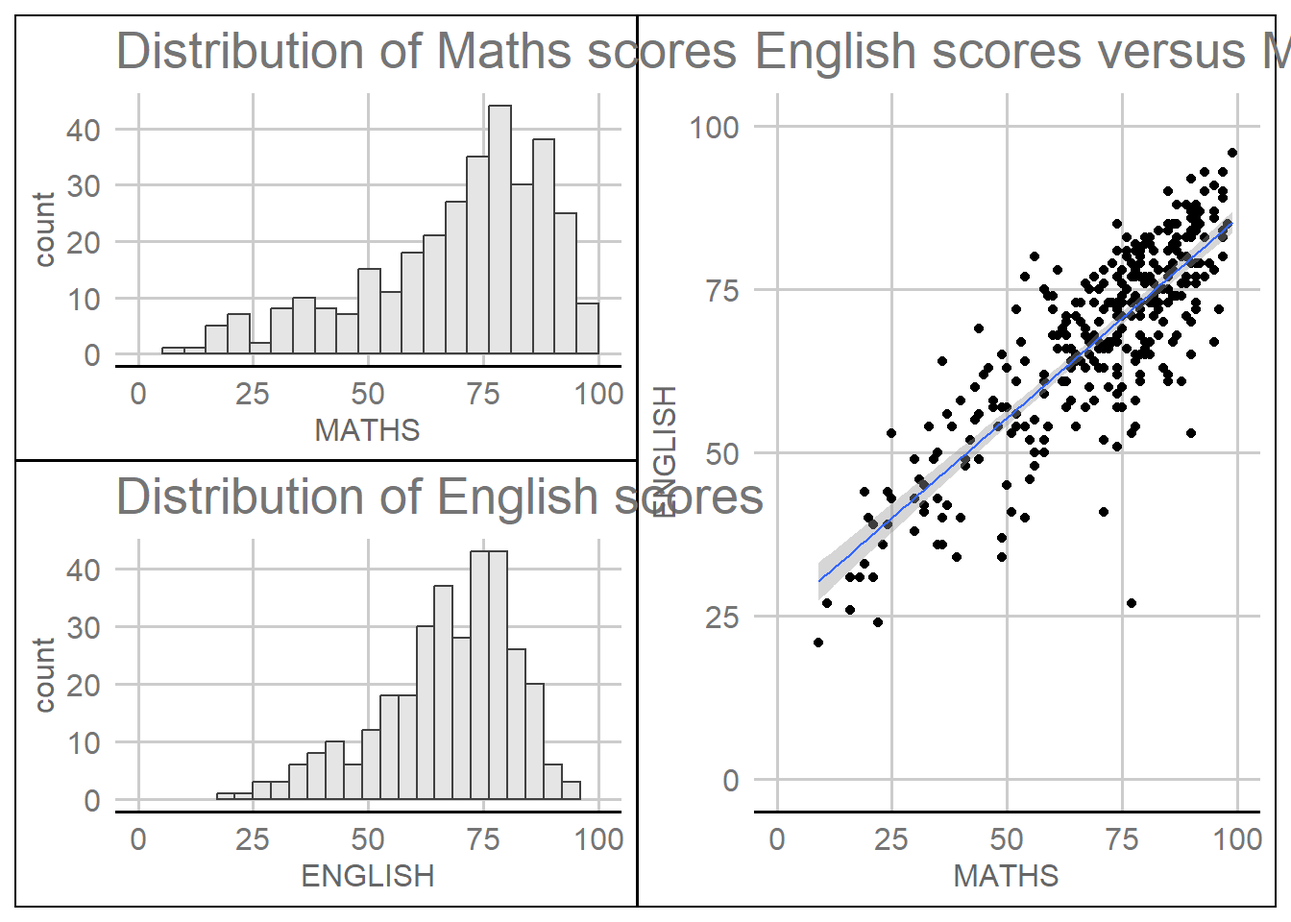
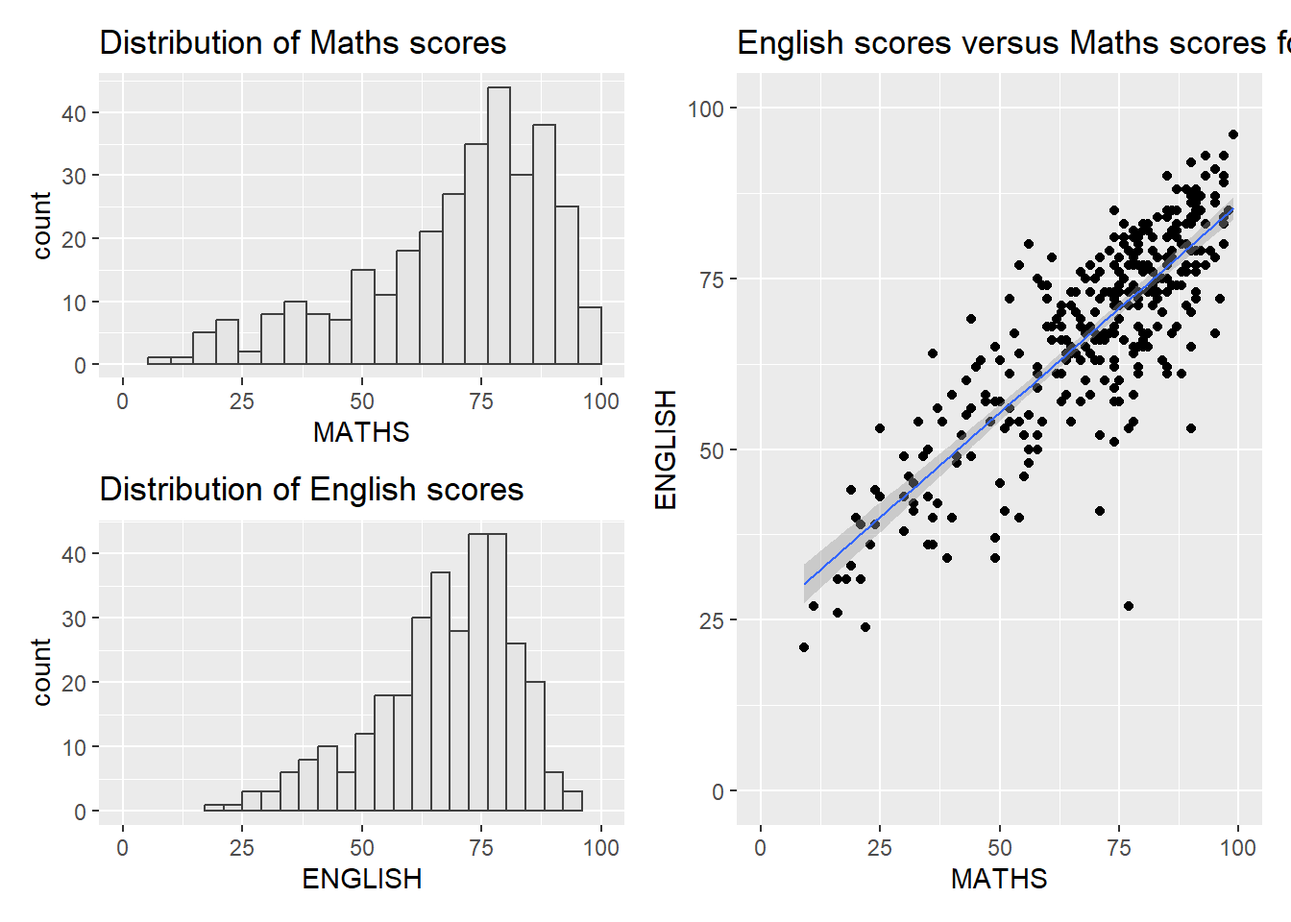
Commit after working Hands On Ex02.

diff --git a/_site/HandsOn_Exercises/HandsOn_Ex02/HandsOnEx02.html b/_site/HandsOn_Exercises/HandsOn_Ex02/HandsOnEx02.html
@@ -197,7 +197,7 @@ background: #300713;
       <div>
       <div class="quarto-title-meta-heading">Modified</div>
       <div class="quarto-title-meta-contents">
-        <p class="date-modified">April 24, 2025</p>
+        <p class="date-modified">April 25, 2025</p>
       </div>
     </div>
       
@@ -234,10 +234,10 @@ background: #300713;
 <h1>Getting Started</h1>
 <p>Besides tidyverse, four R packages will be used.</p>
 <ul>
-<li><p>ggrepel: to provide geoms for ggplot2 to repel overlapping text labels</p></li>
-<li><p>ggthemes: to provide extra themes, geoms, and scales for ‘ggplot2’</p></li>
-<li><p>hrbrthemes: for typography-centric themes and theme components for ggplot2</p></li>
-<li><p>patchwork: for preparing composite figure created using ggplot2</p></li>
+<li><p><a href="https://ggrepel.slowkow.com/"><strong>ggrepel</strong></a>: to provide geoms for ggplot2 to repel overlapping text labels</p></li>
+<li><p><a href="https://yutannihilation.github.io/allYourFigureAreBelongToUs/ggthemes/"><strong>ggthemes</strong></a>: to provide extra themes, geoms, and scales for ‘ggplot2’</p></li>
+<li><p><a href="https://r-graph-gallery.com/package/hrbrthemes.html"><strong>hrbrthemes</strong></a>: for typography-centric themes and theme components for ggplot2</p></li>
+<li><p><a href="https://r-graph-gallery.com/package/patchwork.html"><strong>patchwork</strong></a>: for preparing composite figure created using ggplot2</p></li>
 </ul>
 <p>To check if these packages have been installed and to load them into your working R environment, run the code below.</p>
 <div class="cell">
@@ -364,20 +364,21 @@ dbl (3): ENGLISH, MATHS, SCIENCE
 </figure>
 </div>
 </div>
+<div class="sourceCode cell-code" id="cb8"><pre class="sourceCode r code-with-copy"><code class="sourceCode r"><span id="cb8-1"><a href="#cb8-1" aria-hidden="true" tabindex="-1"></a>knitr<span class="sc">::</span>opts_chunk<span class="sc">$</span><span class="fu">set</span>()</span></code><button title="Copy to Clipboard" class="code-copy-button"><i class="bi"></i></button></pre></div>
 </div>
 <p>ggrepel is an extension of ggplot2 package which provides geoms for ggplot2 to repel overlapping text.</p>
 <div class="cell">
-<div class="sourceCode cell-code" id="cb8"><pre class="sourceCode r code-with-copy"><code class="sourceCode r"><span id="cb8-1"><a href="#cb8-1" aria-hidden="true" tabindex="-1"></a><span class="fu">ggplot</span>(<span class="at">data=</span>exam_data, </span>
-<span id="cb8-2"><a href="#cb8-2" aria-hidden="true" tabindex="-1"></a>       <span class="fu">aes</span>(<span class="at">x=</span> MATHS, </span>
-<span id="cb8-3"><a href="#cb8-3" aria-hidden="true" tabindex="-1"></a>           <span class="at">y=</span>ENGLISH)) <span class="sc">+</span></span>
-<span id="cb8-4"><a href="#cb8-4" aria-hidden="true" tabindex="-1"></a>  <span class="fu">geom_point</span>() <span class="sc">+</span></span>
-<span id="cb8-5"><a href="#cb8-5" aria-hidden="true" tabindex="-1"></a>  <span class="fu">geom_smooth</span>(<span class="at">method=</span>lm, </span>
-<span id="cb8-6"><a href="#cb8-6" aria-hidden="true" tabindex="-1"></a>              <span class="at">size=</span><span class="fl">0.5</span>) <span class="sc">+</span>  </span>
-<span id="cb8-7"><a href="#cb8-7" aria-hidden="true" tabindex="-1"></a>  <span class="fu">geom_label_repel</span>(<span class="fu">aes</span>(<span class="at">label =</span> ID), </span>
-<span id="cb8-8"><a href="#cb8-8" aria-hidden="true" tabindex="-1"></a>                   <span class="at">fontface =</span> <span class="st">"bold"</span>) <span class="sc">+</span></span>
-<span id="cb8-9"><a href="#cb8-9" aria-hidden="true" tabindex="-1"></a>  <span class="fu">coord_cartesian</span>(<span class="at">xlim=</span><span class="fu">c</span>(<span class="dv">0</span>,<span class="dv">100</span>),</span>
-<span id="cb8-10"><a href="#cb8-10" aria-hidden="true" tabindex="-1"></a>                  <span class="at">ylim=</span><span class="fu">c</span>(<span class="dv">0</span>,<span class="dv">100</span>)) <span class="sc">+</span></span>
-<span id="cb8-11"><a href="#cb8-11" aria-hidden="true" tabindex="-1"></a>  <span class="fu">ggtitle</span>(<span class="st">"English scores versus Maths scores for Primary 3"</span>)</span></code><button title="Copy to Clipboard" class="code-copy-button"><i class="bi"></i></button></pre></div>
+<div class="sourceCode cell-code" id="cb9"><pre class="sourceCode r code-with-copy"><code class="sourceCode r"><span id="cb9-1"><a href="#cb9-1" aria-hidden="true" tabindex="-1"></a><span class="fu">ggplot</span>(<span class="at">data=</span>exam_data, </span>
+<span id="cb9-2"><a href="#cb9-2" aria-hidden="true" tabindex="-1"></a>       <span class="fu">aes</span>(<span class="at">x=</span> MATHS, </span>
+<span id="cb9-3"><a href="#cb9-3" aria-hidden="true" tabindex="-1"></a>           <span class="at">y=</span>ENGLISH)) <span class="sc">+</span></span>
+<span id="cb9-4"><a href="#cb9-4" aria-hidden="true" tabindex="-1"></a>  <span class="fu">geom_point</span>() <span class="sc">+</span></span>
+<span id="cb9-5"><a href="#cb9-5" aria-hidden="true" tabindex="-1"></a>  <span class="fu">geom_smooth</span>(<span class="at">method=</span>lm, </span>
+<span id="cb9-6"><a href="#cb9-6" aria-hidden="true" tabindex="-1"></a>              <span class="at">size=</span><span class="fl">0.5</span>) <span class="sc">+</span>  </span>
+<span id="cb9-7"><a href="#cb9-7" aria-hidden="true" tabindex="-1"></a>  <span class="fu">geom_label_repel</span>(<span class="fu">aes</span>(<span class="at">label =</span> ID), </span>
+<span id="cb9-8"><a href="#cb9-8" aria-hidden="true" tabindex="-1"></a>                   <span class="at">fontface =</span> <span class="st">"bold"</span>) <span class="sc">+</span></span>
+<span id="cb9-9"><a href="#cb9-9" aria-hidden="true" tabindex="-1"></a>  <span class="fu">coord_cartesian</span>(<span class="at">xlim=</span><span class="fu">c</span>(<span class="dv">0</span>,<span class="dv">100</span>),</span>
+<span id="cb9-10"><a href="#cb9-10" aria-hidden="true" tabindex="-1"></a>                  <span class="at">ylim=</span><span class="fu">c</span>(<span class="dv">0</span>,<span class="dv">100</span>)) <span class="sc">+</span></span>
+<span id="cb9-11"><a href="#cb9-11" aria-hidden="true" tabindex="-1"></a>  <span class="fu">ggtitle</span>(<span class="st">"English scores versus Maths scores for Primary 3"</span>)</span></code><button title="Copy to Clipboard" class="code-copy-button"><i class="bi"></i></button></pre></div>
 <div class="cell-output cell-output-stderr">
 <pre><code>`geom_smooth()` using formula = 'y ~ x'</code></pre>
 </div>
@@ -392,20 +393,21 @@ increasing max.overlaps</code></pre>
 </figure>
 </div>
 </div>
+<div class="sourceCode cell-code" id="cb12"><pre class="sourceCode r code-with-copy"><code class="sourceCode r"><span id="cb12-1"><a href="#cb12-1" aria-hidden="true" tabindex="-1"></a>knitr<span class="sc">::</span>opts_chunk<span class="sc">$</span><span class="fu">set</span>()</span></code><button title="Copy to Clipboard" class="code-copy-button"><i class="bi"></i></button></pre></div>
 </div>
 </section>
 <section id="themes" class="level1">
 <h1>Themes</h1>
 <p>ggplot2 comes with eight&nbsp;<a href="https://ggplot2.tidyverse.org/reference/ggtheme.html">built-in themes</a>, they are:&nbsp;<code>theme_gray()</code>,&nbsp;<code>theme_bw()</code>,&nbsp;<code>theme_classic()</code>,&nbsp;<code>theme_dark()</code>,&nbsp;<code>theme_light()</code>,&nbsp;<code>theme_linedraw()</code>,&nbsp;<code>theme_minimal()</code>, and&nbsp;<code>theme_void().</code></p>
 <div class="cell">
-<div class="sourceCode cell-code" id="cb11"><pre class="sourceCode r code-with-copy"><code class="sourceCode r"><span id="cb11-1"><a href="#cb11-1" aria-hidden="true" tabindex="-1"></a><span class="fu">ggplot</span>(<span class="at">data=</span>exam_data, </span>
-<span id="cb11-2"><a href="#cb11-2" aria-hidden="true" tabindex="-1"></a>             <span class="fu">aes</span>(<span class="at">x =</span> MATHS)) <span class="sc">+</span></span>
-<span id="cb11-3"><a href="#cb11-3" aria-hidden="true" tabindex="-1"></a>  <span class="fu">geom_histogram</span>(<span class="at">bins=</span><span class="dv">20</span>, </span>
-<span id="cb11-4"><a href="#cb11-4" aria-hidden="true" tabindex="-1"></a>                 <span class="at">boundary =</span> <span class="dv">100</span>,</span>
-<span id="cb11-5"><a href="#cb11-5" aria-hidden="true" tabindex="-1"></a>                 <span class="at">color=</span><span class="st">"grey25"</span>, </span>
-<span id="cb11-6"><a href="#cb11-6" aria-hidden="true" tabindex="-1"></a>                 <span class="at">fill=</span><span class="st">"grey90"</span>) <span class="sc">+</span></span>
-<span id="cb11-7"><a href="#cb11-7" aria-hidden="true" tabindex="-1"></a>  <span class="fu">theme_dark</span>() <span class="sc">+</span></span>
-<span id="cb11-8"><a href="#cb11-8" aria-hidden="true" tabindex="-1"></a>  <span class="fu">ggtitle</span>(<span class="st">"Distribution of Maths Scores"</span>) </span></code><button title="Copy to Clipboard" class="code-copy-button"><i class="bi"></i></button></pre></div>
+<div class="sourceCode cell-code" id="cb13"><pre class="sourceCode r code-with-copy"><code class="sourceCode r"><span id="cb13-1"><a href="#cb13-1" aria-hidden="true" tabindex="-1"></a><span class="fu">ggplot</span>(<span class="at">data=</span>exam_data, </span>
+<span id="cb13-2"><a href="#cb13-2" aria-hidden="true" tabindex="-1"></a>             <span class="fu">aes</span>(<span class="at">x =</span> MATHS)) <span class="sc">+</span></span>
+<span id="cb13-3"><a href="#cb13-3" aria-hidden="true" tabindex="-1"></a>  <span class="fu">geom_histogram</span>(<span class="at">bins=</span><span class="dv">20</span>, </span>
+<span id="cb13-4"><a href="#cb13-4" aria-hidden="true" tabindex="-1"></a>                 <span class="at">boundary =</span> <span class="dv">100</span>,</span>
+<span id="cb13-5"><a href="#cb13-5" aria-hidden="true" tabindex="-1"></a>                 <span class="at">color=</span><span class="st">"grey25"</span>, </span>
+<span id="cb13-6"><a href="#cb13-6" aria-hidden="true" tabindex="-1"></a>                 <span class="at">fill=</span><span class="st">"grey90"</span>) <span class="sc">+</span></span>
+<span id="cb13-7"><a href="#cb13-7" aria-hidden="true" tabindex="-1"></a>  <span class="fu">theme_dark</span>() <span class="sc">+</span></span>
+<span id="cb13-8"><a href="#cb13-8" aria-hidden="true" tabindex="-1"></a>  <span class="fu">ggtitle</span>(<span class="st">"Distribution of Maths Scores"</span>) </span></code><button title="Copy to Clipboard" class="code-copy-button"><i class="bi"></i></button></pre></div>
 <div class="cell-output-display">
 <div>
 <figure class="figure">
@@ -415,14 +417,14 @@ increasing max.overlaps</code></pre>
 </div>
 </div>
 <div class="cell">
-<div class="sourceCode cell-code" id="cb12"><pre class="sourceCode r code-with-copy"><code class="sourceCode r"><span id="cb12-1"><a href="#cb12-1" aria-hidden="true" tabindex="-1"></a><span class="fu">ggplot</span>(<span class="at">data=</span>exam_data, </span>
-<span id="cb12-2"><a href="#cb12-2" aria-hidden="true" tabindex="-1"></a>             <span class="fu">aes</span>(<span class="at">x =</span> MATHS)) <span class="sc">+</span></span>
-<span id="cb12-3"><a href="#cb12-3" aria-hidden="true" tabindex="-1"></a>  <span class="fu">geom_histogram</span>(<span class="at">bins=</span><span class="dv">20</span>, </span>
-<span id="cb12-4"><a href="#cb12-4" aria-hidden="true" tabindex="-1"></a>                 <span class="at">boundary =</span> <span class="dv">100</span>,</span>
-<span id="cb12-5"><a href="#cb12-5" aria-hidden="true" tabindex="-1"></a>                 <span class="at">color=</span><span class="st">"grey25"</span>, </span>
-<span id="cb12-6"><a href="#cb12-6" aria-hidden="true" tabindex="-1"></a>                 <span class="at">fill=</span><span class="st">"grey90"</span>) <span class="sc">+</span></span>
-<span id="cb12-7"><a href="#cb12-7" aria-hidden="true" tabindex="-1"></a>  <span class="fu">ggtitle</span>(<span class="st">"Distribution of Maths scores"</span>) <span class="sc">+</span></span>
-<span id="cb12-8"><a href="#cb12-8" aria-hidden="true" tabindex="-1"></a>  <span class="fu">theme_ipsum</span>()</span></code><button title="Copy to Clipboard" class="code-copy-button"><i class="bi"></i></button></pre></div>
+<div class="sourceCode cell-code" id="cb14"><pre class="sourceCode r code-with-copy"><code class="sourceCode r"><span id="cb14-1"><a href="#cb14-1" aria-hidden="true" tabindex="-1"></a><span class="fu">ggplot</span>(<span class="at">data=</span>exam_data, </span>
+<span id="cb14-2"><a href="#cb14-2" aria-hidden="true" tabindex="-1"></a>             <span class="fu">aes</span>(<span class="at">x =</span> MATHS)) <span class="sc">+</span></span>
+<span id="cb14-3"><a href="#cb14-3" aria-hidden="true" tabindex="-1"></a>  <span class="fu">geom_histogram</span>(<span class="at">bins=</span><span class="dv">20</span>, </span>
+<span id="cb14-4"><a href="#cb14-4" aria-hidden="true" tabindex="-1"></a>                 <span class="at">boundary =</span> <span class="dv">100</span>,</span>
+<span id="cb14-5"><a href="#cb14-5" aria-hidden="true" tabindex="-1"></a>                 <span class="at">color=</span><span class="st">"grey25"</span>, </span>
+<span id="cb14-6"><a href="#cb14-6" aria-hidden="true" tabindex="-1"></a>                 <span class="at">fill=</span><span class="st">"grey90"</span>) <span class="sc">+</span></span>
+<span id="cb14-7"><a href="#cb14-7" aria-hidden="true" tabindex="-1"></a>  <span class="fu">ggtitle</span>(<span class="st">"Distribution of Maths scores"</span>) <span class="sc">+</span></span>
+<span id="cb14-8"><a href="#cb14-8" aria-hidden="true" tabindex="-1"></a>  <span class="fu">theme_ipsum</span>()</span></code><button title="Copy to Clipboard" class="code-copy-button"><i class="bi"></i></button></pre></div>
 <div class="cell-output cell-output-stderr">
 <pre><code>Warning in grid.Call(C_stringMetric, as.graphicsAnnot(x$label)): font family
 not found in Windows font database
@@ -456,45 +458,54 @@ font family not found in Windows font database</code></pre>
 </figure>
 </div>
 </div>
+<div class="sourceCode cell-code" id="cb18"><pre class="sourceCode r code-with-copy"><code class="sourceCode r"><span id="cb18-1"><a href="#cb18-1" aria-hidden="true" tabindex="-1"></a>knitr<span class="sc">::</span>opts_chunk<span class="sc">$</span><span class="fu">set</span>()</span></code><button title="Copy to Clipboard" class="code-copy-button"><i class="bi"></i></button></pre></div>
 </div>
 </section>
 <section id="combining-graphs" class="level1">
 <h1>Combining Graphs</h1>
 <p>Let’s create three graphs named p1, p2 and p3.</p>
 <div class="cell">
-<div class="sourceCode cell-code" id="cb16"><pre class="sourceCode r code-with-copy"><code class="sourceCode r"><span id="cb16-1"><a href="#cb16-1" aria-hidden="true" tabindex="-1"></a>p1 <span class="ot">&lt;-</span> <span class="fu">ggplot</span>(<span class="at">data=</span>exam_data, </span>
-<span id="cb16-2"><a href="#cb16-2" aria-hidden="true" tabindex="-1"></a>             <span class="fu">aes</span>(<span class="at">x =</span> MATHS)) <span class="sc">+</span></span>
-<span id="cb16-3"><a href="#cb16-3" aria-hidden="true" tabindex="-1"></a>  <span class="fu">geom_histogram</span>(<span class="at">bins=</span><span class="dv">20</span>, </span>
-<span id="cb16-4"><a href="#cb16-4" aria-hidden="true" tabindex="-1"></a>                 <span class="at">boundary =</span> <span class="dv">100</span>,</span>
-<span id="cb16-5"><a href="#cb16-5" aria-hidden="true" tabindex="-1"></a>                 <span class="at">color=</span><span class="st">"grey25"</span>, </span>
-<span id="cb16-6"><a href="#cb16-6" aria-hidden="true" tabindex="-1"></a>                 <span class="at">fill=</span><span class="st">"grey90"</span>) <span class="sc">+</span> </span>
-<span id="cb16-7"><a href="#cb16-7" aria-hidden="true" tabindex="-1"></a>  <span class="fu">coord_cartesian</span>(<span class="at">xlim=</span><span class="fu">c</span>(<span class="dv">0</span>,<span class="dv">100</span>)) <span class="sc">+</span></span>
-<span id="cb16-8"><a href="#cb16-8" aria-hidden="true" tabindex="-1"></a>  <span class="fu">ggtitle</span>(<span class="st">"Distribution of Maths scores"</span>)</span></code><button title="Copy to Clipboard" class="code-copy-button"><i class="bi"></i></button></pre></div>
+<div class="sourceCode cell-code" id="cb19"><pre class="sourceCode r code-with-copy"><code class="sourceCode r"><span id="cb19-1"><a href="#cb19-1" aria-hidden="true" tabindex="-1"></a>p1 <span class="ot">&lt;-</span> <span class="fu">ggplot</span>(<span class="at">data=</span>exam_data, </span>
+<span id="cb19-2"><a href="#cb19-2" aria-hidden="true" tabindex="-1"></a>             <span class="fu">aes</span>(<span class="at">x =</span> MATHS)) <span class="sc">+</span></span>
+<span id="cb19-3"><a href="#cb19-3" aria-hidden="true" tabindex="-1"></a>  <span class="fu">geom_histogram</span>(<span class="at">bins=</span><span class="dv">20</span>, </span>
+<span id="cb19-4"><a href="#cb19-4" aria-hidden="true" tabindex="-1"></a>                 <span class="at">boundary =</span> <span class="dv">100</span>,</span>
+<span id="cb19-5"><a href="#cb19-5" aria-hidden="true" tabindex="-1"></a>                 <span class="at">color=</span><span class="st">"grey25"</span>, </span>
+<span id="cb19-6"><a href="#cb19-6" aria-hidden="true" tabindex="-1"></a>                 <span class="at">fill=</span><span class="st">"grey90"</span>) <span class="sc">+</span> </span>
+<span id="cb19-7"><a href="#cb19-7" aria-hidden="true" tabindex="-1"></a>  <span class="fu">coord_cartesian</span>(<span class="at">xlim=</span><span class="fu">c</span>(<span class="dv">0</span>,<span class="dv">100</span>)) <span class="sc">+</span></span>
+<span id="cb19-8"><a href="#cb19-8" aria-hidden="true" tabindex="-1"></a>  <span class="fu">ggtitle</span>(<span class="st">"Distribution of Maths scores"</span>)</span>
+<span id="cb19-9"><a href="#cb19-9" aria-hidden="true" tabindex="-1"></a>knitr<span class="sc">::</span>opts_chunk<span class="sc">$</span><span class="fu">set</span>()</span></code><button title="Copy to Clipboard" class="code-copy-button"><i class="bi"></i></button></pre></div>
 </div>
 <div class="cell">
-<div class="sourceCode cell-code" id="cb17"><pre class="sourceCode r code-with-copy"><code class="sourceCode r"><span id="cb17-1"><a href="#cb17-1" aria-hidden="true" tabindex="-1"></a>p2 <span class="ot">&lt;-</span> <span class="fu">ggplot</span>(<span class="at">data=</span>exam_data, </span>
-<span id="cb17-2"><a href="#cb17-2" aria-hidden="true" tabindex="-1"></a>             <span class="fu">aes</span>(<span class="at">x =</span> ENGLISH)) <span class="sc">+</span></span>
-<span id="cb17-3"><a href="#cb17-3" aria-hidden="true" tabindex="-1"></a>  <span class="fu">geom_histogram</span>(<span class="at">bins=</span><span class="dv">20</span>, </span>
-<span id="cb17-4"><a href="#cb17-4" aria-hidden="true" tabindex="-1"></a>                 <span class="at">boundary =</span> <span class="dv">100</span>,</span>
-<span id="cb17-5"><a href="#cb17-5" aria-hidden="true" tabindex="-1"></a>                 <span class="at">color=</span><span class="st">"grey25"</span>, </span>
-<span id="cb17-6"><a href="#cb17-6" aria-hidden="true" tabindex="-1"></a>                 <span class="at">fill=</span><span class="st">"grey90"</span>) <span class="sc">+</span></span>
-<span id="cb17-7"><a href="#cb17-7" aria-hidden="true" tabindex="-1"></a>  <span class="fu">coord_cartesian</span>(<span class="at">xlim=</span><span class="fu">c</span>(<span class="dv">0</span>,<span class="dv">100</span>)) <span class="sc">+</span></span>
-<span id="cb17-8"><a href="#cb17-8" aria-hidden="true" tabindex="-1"></a>  <span class="fu">ggtitle</span>(<span class="st">"Distribution of English scores"</span>)</span></code><button title="Copy to Clipboard" class="code-copy-button"><i class="bi"></i></button></pre></div>
+<div class="sourceCode cell-code" id="cb20"><pre class="sourceCode r code-with-copy"><code class="sourceCode r"><span id="cb20-1"><a href="#cb20-1" aria-hidden="true" tabindex="-1"></a>p2 <span class="ot">&lt;-</span> <span class="fu">ggplot</span>(<span class="at">data=</span>exam_data, </span>
+<span id="cb20-2"><a href="#cb20-2" aria-hidden="true" tabindex="-1"></a>             <span class="fu">aes</span>(<span class="at">x =</span> ENGLISH)) <span class="sc">+</span></span>
+<span id="cb20-3"><a href="#cb20-3" aria-hidden="true" tabindex="-1"></a>  <span class="fu">geom_histogram</span>(<span class="at">bins=</span><span class="dv">20</span>, </span>
+<span id="cb20-4"><a href="#cb20-4" aria-hidden="true" tabindex="-1"></a>                 <span class="at">boundary =</span> <span class="dv">100</span>,</span>
+<span id="cb20-5"><a href="#cb20-5" aria-hidden="true" tabindex="-1"></a>                 <span class="at">color=</span><span class="st">"grey25"</span>, </span>
+<span id="cb20-6"><a href="#cb20-6" aria-hidden="true" tabindex="-1"></a>                 <span class="at">fill=</span><span class="st">"grey90"</span>) <span class="sc">+</span></span>
+<span id="cb20-7"><a href="#cb20-7" aria-hidden="true" tabindex="-1"></a>  <span class="fu">coord_cartesian</span>(<span class="at">xlim=</span><span class="fu">c</span>(<span class="dv">0</span>,<span class="dv">100</span>)) <span class="sc">+</span></span>
+<span id="cb20-8"><a href="#cb20-8" aria-hidden="true" tabindex="-1"></a>  <span class="fu">ggtitle</span>(<span class="st">"Distribution of English scores"</span>)</span>
+<span id="cb20-9"><a href="#cb20-9" aria-hidden="true" tabindex="-1"></a>knitr<span class="sc">::</span>opts_chunk<span class="sc">$</span><span class="fu">set</span>()</span></code><button title="Copy to Clipboard" class="code-copy-button"><i class="bi"></i></button></pre></div>
 </div>
 <div class="cell">
-<div class="sourceCode cell-code" id="cb18"><pre class="sourceCode r code-with-copy"><code class="sourceCode r"><span id="cb18-1"><a href="#cb18-1" aria-hidden="true" tabindex="-1"></a>p3 <span class="ot">&lt;-</span> <span class="fu">ggplot</span>(<span class="at">data=</span>exam_data, </span>
-<span id="cb18-2"><a href="#cb18-2" aria-hidden="true" tabindex="-1"></a>             <span class="fu">aes</span>(<span class="at">x=</span> MATHS, </span>
-<span id="cb18-3"><a href="#cb18-3" aria-hidden="true" tabindex="-1"></a>                 <span class="at">y=</span>ENGLISH)) <span class="sc">+</span></span>
-<span id="cb18-4"><a href="#cb18-4" aria-hidden="true" tabindex="-1"></a>  <span class="fu">geom_point</span>() <span class="sc">+</span></span>
-<span id="cb18-5"><a href="#cb18-5" aria-hidden="true" tabindex="-1"></a>  <span class="fu">geom_smooth</span>(<span class="at">method=</span>lm, </span>
-<span id="cb18-6"><a href="#cb18-6" aria-hidden="true" tabindex="-1"></a>              <span class="at">size=</span><span class="fl">0.5</span>) <span class="sc">+</span>  </span>
-<span id="cb18-7"><a href="#cb18-7" aria-hidden="true" tabindex="-1"></a>  <span class="fu">coord_cartesian</span>(<span class="at">xlim=</span><span class="fu">c</span>(<span class="dv">0</span>,<span class="dv">100</span>),</span>
-<span id="cb18-8"><a href="#cb18-8" aria-hidden="true" tabindex="-1"></a>                  <span class="at">ylim=</span><span class="fu">c</span>(<span class="dv">0</span>,<span class="dv">100</span>)) <span class="sc">+</span></span>
-<span id="cb18-9"><a href="#cb18-9" aria-hidden="true" tabindex="-1"></a>  <span class="fu">ggtitle</span>(<span class="st">"English scores versus Maths scores for Primary 3"</span>)</span></code><button title="Copy to Clipboard" class="code-copy-button"><i class="bi"></i></button></pre></div>
+<div class="sourceCode cell-code" id="cb21"><pre class="sourceCode r code-with-copy"><code class="sourceCode r"><span id="cb21-1"><a href="#cb21-1" aria-hidden="true" tabindex="-1"></a>p3 <span class="ot">&lt;-</span> <span class="fu">ggplot</span>(<span class="at">data=</span>exam_data, </span>
+<span id="cb21-2"><a href="#cb21-2" aria-hidden="true" tabindex="-1"></a>             <span class="fu">aes</span>(<span class="at">x=</span> MATHS, </span>
+<span id="cb21-3"><a href="#cb21-3" aria-hidden="true" tabindex="-1"></a>                 <span class="at">y=</span>ENGLISH)) <span class="sc">+</span></span>
+<span id="cb21-4"><a href="#cb21-4" aria-hidden="true" tabindex="-1"></a>  <span class="fu">geom_point</span>() <span class="sc">+</span></span>
+<span id="cb21-5"><a href="#cb21-5" aria-hidden="true" tabindex="-1"></a>  <span class="fu">geom_smooth</span>(<span class="at">method=</span>lm, </span>
+<span id="cb21-6"><a href="#cb21-6" aria-hidden="true" tabindex="-1"></a>              <span class="at">size=</span><span class="fl">0.5</span>) <span class="sc">+</span>  </span>
+<span id="cb21-7"><a href="#cb21-7" aria-hidden="true" tabindex="-1"></a>  <span class="fu">coord_cartesian</span>(<span class="at">xlim=</span><span class="fu">c</span>(<span class="dv">0</span>,<span class="dv">100</span>),</span>
+<span id="cb21-8"><a href="#cb21-8" aria-hidden="true" tabindex="-1"></a>                  <span class="at">ylim=</span><span class="fu">c</span>(<span class="dv">0</span>,<span class="dv">100</span>)) <span class="sc">+</span></span>
+<span id="cb21-9"><a href="#cb21-9" aria-hidden="true" tabindex="-1"></a>  <span class="fu">ggtitle</span>(<span class="st">"English scores versus Maths scores for Primary 3"</span>)</span>
+<span id="cb21-10"><a href="#cb21-10" aria-hidden="true" tabindex="-1"></a>knitr<span class="sc">::</span>opts_chunk<span class="sc">$</span><span class="fu">set</span>()</span></code><button title="Copy to Clipboard" class="code-copy-button"><i class="bi"></i></button></pre></div>
 </div>
-<p>“/” operator to stack two ggplot2 graphs, “|” operator to place the plots beside each other, “()” operator the define the sequence of the plotting.</p>
+<p><strong><em>Patchwork</em></strong> is a ggplot2 extension designed to combine separate ggplot2 graphs into a single figure. Here’s the syntax.</p>
+<ul>
+<li><p>“/” operator to stack two ggplot2 graphs</p></li>
+<li><p>“|” operator to place the plots beside each other</p></li>
+<li><p>“()” operator the define the sequence of the plotting</p></li>
+</ul>
 <div class="cell">
-<div class="sourceCode cell-code" id="cb19"><pre class="sourceCode r code-with-copy"><code class="sourceCode r"><span id="cb19-1"><a href="#cb19-1" aria-hidden="true" tabindex="-1"></a>p1 <span class="sc">+</span> p2</span></code><button title="Copy to Clipboard" class="code-copy-button"><i class="bi"></i></button></pre></div>
+<div class="sourceCode cell-code" id="cb22"><pre class="sourceCode r code-with-copy"><code class="sourceCode r"><span id="cb22-1"><a href="#cb22-1" aria-hidden="true" tabindex="-1"></a>p1 <span class="sc">+</span> p2</span></code><button title="Copy to Clipboard" class="code-copy-button"><i class="bi"></i></button></pre></div>
 <div class="cell-output-display">
 <div>
 <figure class="figure">
@@ -504,7 +515,7 @@ font family not found in Windows font database</code></pre>
 </div>
 </div>
 <div class="cell">
-<div class="sourceCode cell-code" id="cb20"><pre class="sourceCode r code-with-copy"><code class="sourceCode r"><span id="cb20-1"><a href="#cb20-1" aria-hidden="true" tabindex="-1"></a>(p1 <span class="sc">/</span> p2) <span class="sc">|</span> p3</span></code><button title="Copy to Clipboard" class="code-copy-button"><i class="bi"></i></button></pre></div>
+<div class="sourceCode cell-code" id="cb23"><pre class="sourceCode r code-with-copy"><code class="sourceCode r"><span id="cb23-1"><a href="#cb23-1" aria-hidden="true" tabindex="-1"></a>(p1 <span class="sc">/</span> p2) <span class="sc">|</span> p3</span></code><button title="Copy to Clipboard" class="code-copy-button"><i class="bi"></i></button></pre></div>
 <div class="cell-output cell-output-stderr">
 <pre><code>`geom_smooth()` using formula = 'y ~ x'</code></pre>
 </div>
@@ -517,8 +528,8 @@ font family not found in Windows font database</code></pre>
 </div>
 </div>
 <div class="cell">
-<div class="sourceCode cell-code" id="cb22"><pre class="sourceCode r code-with-copy"><code class="sourceCode r"><span id="cb22-1"><a href="#cb22-1" aria-hidden="true" tabindex="-1"></a>patchwork <span class="ot">&lt;-</span> (p1 <span class="sc">/</span> p2) <span class="sc">|</span> p3</span>
-<span id="cb22-2"><a href="#cb22-2" aria-hidden="true" tabindex="-1"></a>patchwork <span class="sc">&amp;</span> <span class="fu">theme_gdocs</span>()</span></code><button title="Copy to Clipboard" class="code-copy-button"><i class="bi"></i></button></pre></div>
+<div class="sourceCode cell-code" id="cb25"><pre class="sourceCode r code-with-copy"><code class="sourceCode r"><span id="cb25-1"><a href="#cb25-1" aria-hidden="true" tabindex="-1"></a>patchwork <span class="ot">&lt;-</span> (p1 <span class="sc">/</span> p2) <span class="sc">|</span> p3</span>
+<span id="cb25-2"><a href="#cb25-2" aria-hidden="true" tabindex="-1"></a>patchwork</span></code><button title="Copy to Clipboard" class="code-copy-button"><i class="bi"></i></button></pre></div>
 <div class="cell-output cell-output-stderr">
 <pre><code>`geom_smooth()` using formula = 'y ~ x'</code></pre>
 </div>
